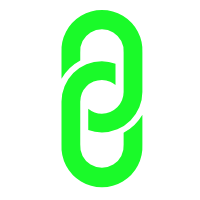
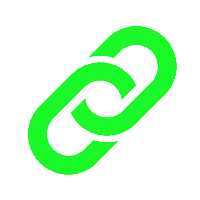
修改软件图标.

Changed region(s): [[0.12, 0.03, 0.9, 0.96], [0.42, 0.42, 0.45, 0.45]]

diff --git a/mainwindow.cpp b/mainwindow.cpp
@@ -54,6 +54,9 @@ void MainWindow::on_pushButton_Clien_Connect_clicked()
         ui->pushButton_Clien_Connect->setText("断开");
         ui->comboBox_Client_IP->setEnabled(false);
         ui->comboBox_Client_Port->setEnabled(false);
+
+        // 设置标题的图标
+        MainWindow::setWindowIcon(QIcon(":/images/connect.png"));
     }
     else
     {
@@ -64,6 +67,9 @@ void MainWindow::on_pushButton_Clien_Connect_clicked()
         ui->pushButton_Client_Send->setEnabled(false);
         ui->comboBox_Client_IP->setEnabled(true);
         ui->comboBox_Client_Port->setEnabled(true);
+
+        // 设置标题的图标
+        MainWindow::setWindowIcon(QIcon(":/images/disconnect.png"));
     }
 }
 
@@ -97,5 +103,8 @@ void MainWindow::client_Socket_DisConnected()
     ui->pushButton_Clien_Connect->setText("连接");
     ui->comboBox_Client_IP->setEnabled(true);
     ui->comboBox_Client_Port->setEnabled(true);
+
+    // 设置标题的图标
+    MainWindow::setWindowIcon(QIcon(":/images/disconnect.png"));
     qDebug() << "DisConnected.";
 }
